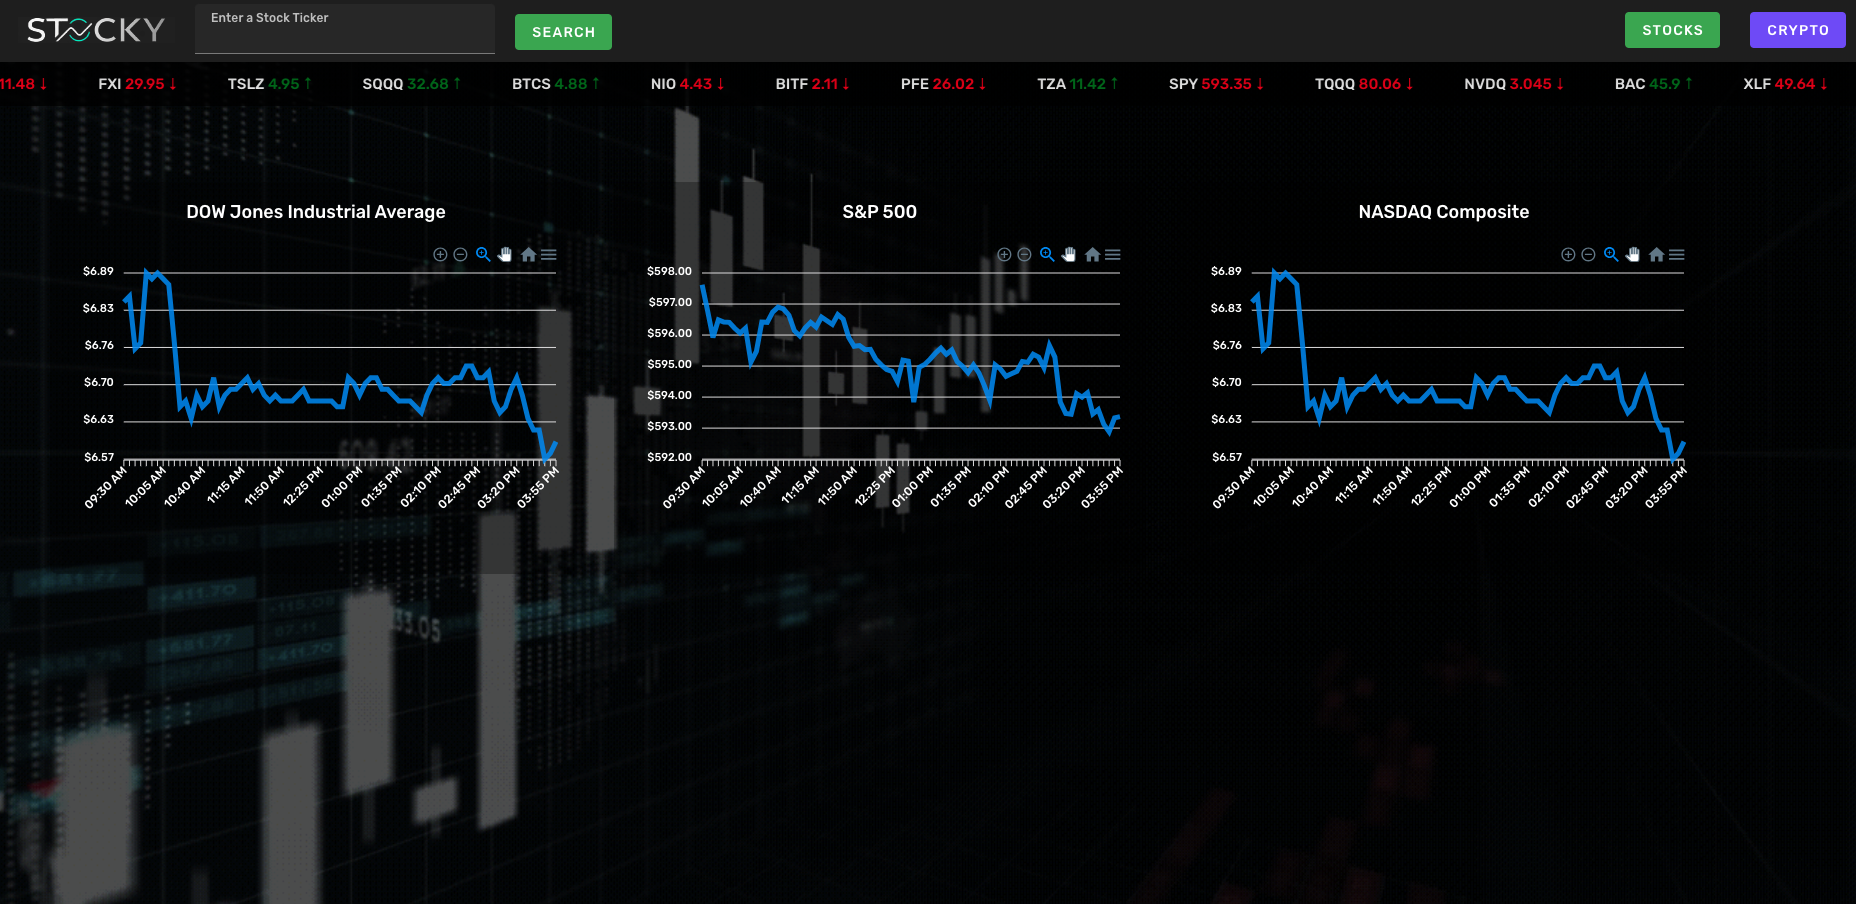
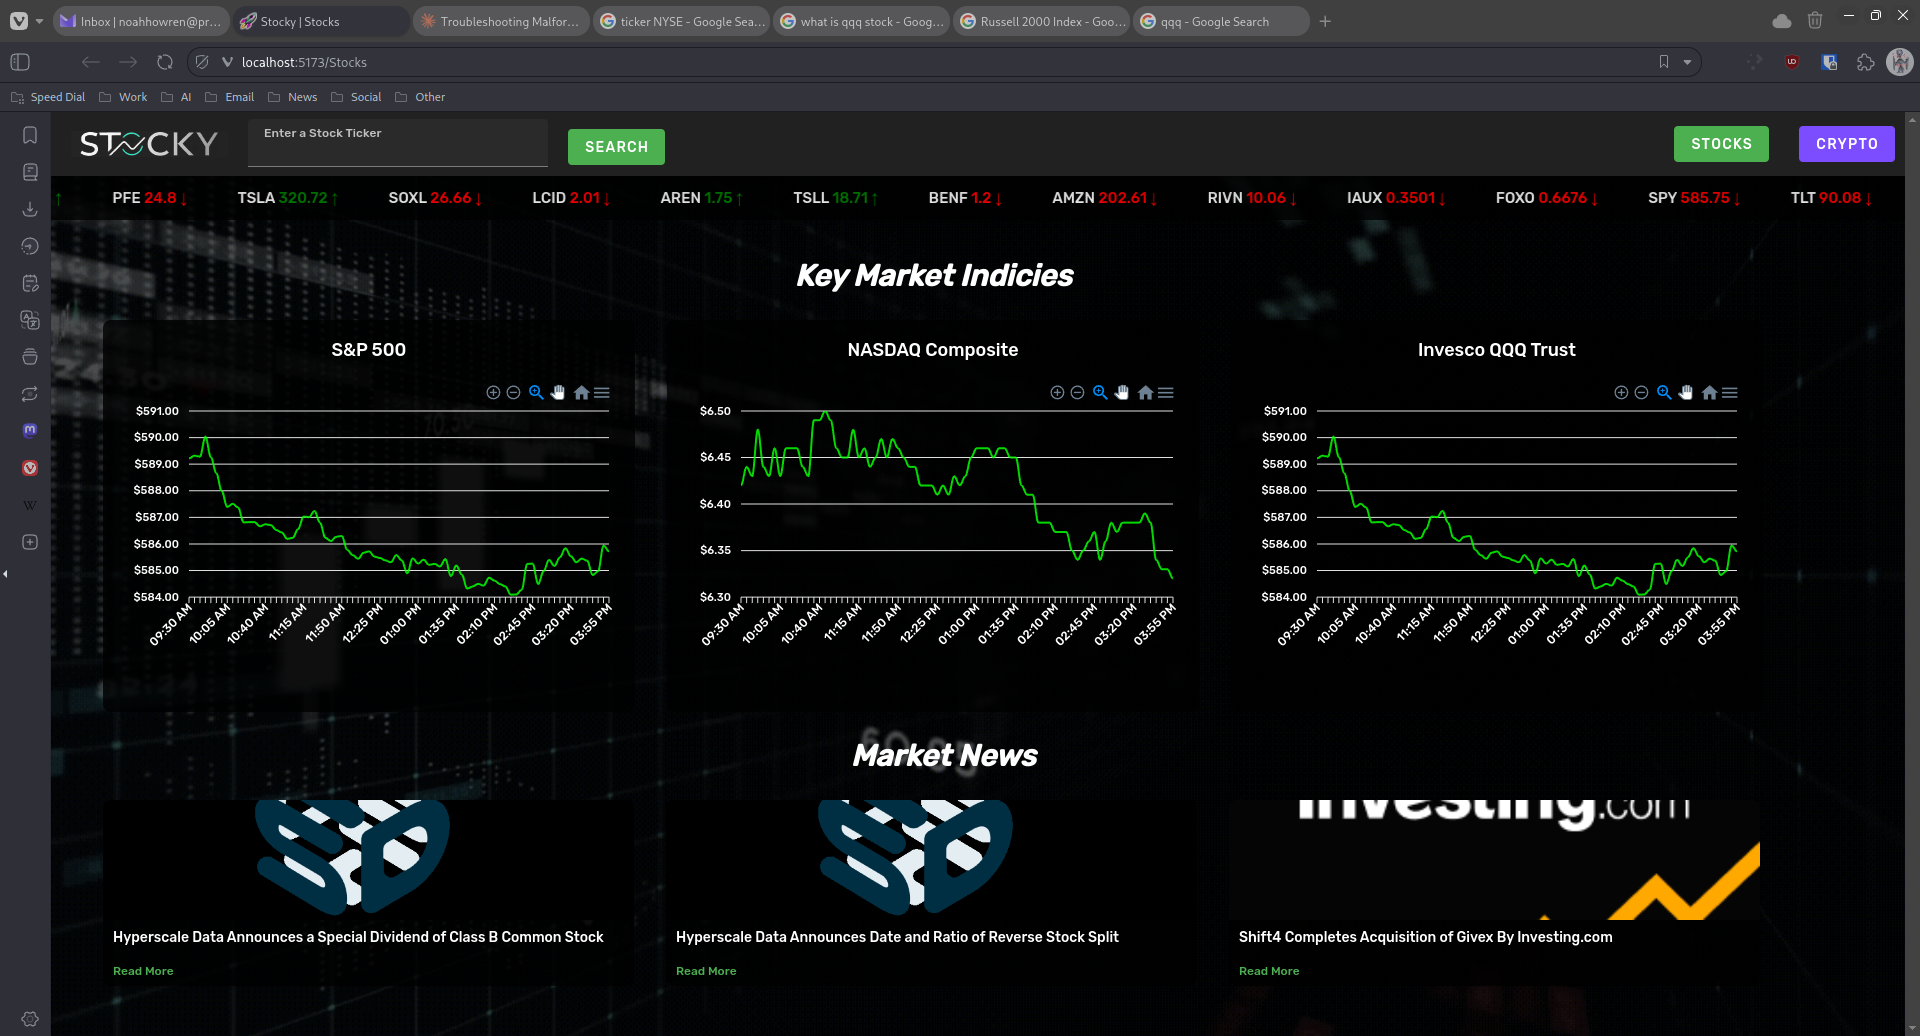
Adding Market News to home screen, replacing DJIA

diff --git a/frontend/src/views/Home.vue b/frontend/src/views/Home.vue
@@ -3,18 +3,9 @@
         <nav_bar></nav_bar>
         <img :src="background" class="background" :key="background">
         <div class="content-wrapper">
+            <div class="chart_header">Key Market Indicies</div>
             <div class="chart-container">
-                <div class="chart-box">
-                    <h3 class="chart-title">DOW Jones Industrial Average</h3>
-                    <apexchart
-                        class="djia"
-                        type="line"
-                        :height="300"
-                        :width="500"
-                        :series="compData"
-                        :options="compOpt"
-                    /> 
-                </div>
+                
                 <div class="chart-box">
                     <h3 class="chart-title">S&P 500</h3>
                     <apexchart
@@ -26,6 +17,7 @@
                         :options="spyOpt"
                     />
                 </div>
+                
                 <div class="chart-box">
                     <h3 class="chart-title">NASDAQ Composite</h3>
                     <apexchart
@@ -36,6 +28,28 @@
                         :series="compData"
                         :options="compOpt"
                     /> 
+                </div>
+                <div class="chart-box">
+                    <h3 class="chart-title">Invesco QQQ Trust</h3>
+                    <apexchart
+                        class="qqq-graph"
+                        type="line"
+                        :height="300"
+                        :width="500"
+                        :series="spyData"
+                        :options="spyOpt"
+                    /> 
+                </div>
+            </div>
+            
+            <div v-show =isNews class="news_section">
+                <div class="news_header">Market News</div>
+                <div class="news_container" v-if="newsData.length > 0">
+                    <div v-for="(article, index) in newsData" :key="index" class="news_box">
+                        <v-img :src="article.image_url" height="120px" width="100%" cover></v-img>
+                        <h3 class="news_title">{{ article.title }}</h3>
+                        <a :href="article.url" target="_blank" class="news_link">Read More</a>
+                    </div>
                 </div>
             </div>
         </div>
@@ -61,11 +75,14 @@
         data() {
             return {
                 background: s_background,
-                djiaData: [],
+                qqqData: [],
                 spyData: [],
                 compData: [],
                 rutData: [],
-                djiaOpt: {
+                news: [],
+                newsData: [],
+                isNews: false,
+                qqqOpt: {
                     chart: {
                         type: 'line',
                         id: 'lines',
@@ -107,6 +124,14 @@
                                 colors: 'white'
                             }
                         }
+                    },
+                    stroke: {
+                        curve: 'smooth',
+                        width: 2
+                    },
+                    fill: {
+                        type: 'solid',
+                        colors: ['#04ff00']  // Same green color as other charts
                     }
                 },
                 spyOpt: {
@@ -151,6 +176,14 @@
                                 colors: 'white'
                             }
                         }
+                    },
+                    stroke: {
+                        curve: 'smooth',
+                        width: 2
+                    },
+                    fill: {
+                        type: 'solid',
+                        colors: ['#04ff00']
                     }
                 },
                 compOpt: {
@@ -195,52 +228,14 @@
                                 colors: 'white'
                             }
                         }
-                    }
-                },
-                chartOptions: {
-                    chart: {
-                        type: 'line',
-                        height: '30%',
-                        width: 400,
-                        id: 'lines',
-                        fontFamily: 'Rubik, sans-serif'
                     },
-                    zoom: {
-                        enabled: false
+                    stroke: {
+                        curve: 'smooth',
+                        width: 2
                     },
-                    title: {
-                        align: 'left',
-                        style: {
-                            color: 'white',
-                            fontSize: '16px',
-                            fontWeight: 'bold'
-                        }
-                    },
-                    tooltip: {
-                        enabled: true,
-                        followCursor: true,
-                        style: {
-                            color: 'black'
-                        }
-                    },
-                    yaxis: {
-                        forceNiceScale: true,
-                        labels: {
-                            formatter: function(value) {
-                                return '$' + value.toFixed(2);
-                            },
-                            style: {
-                                colors: 'white'
-                            }
-                        }
-                    },
-                    xaxis: {
-                        tickAmount: 10,
-                        labels: {
-                            style: {
-                                colors: 'white'
-                            }
-                        }
+                    fill: {
+                        type: 'solid',
+                        colors: ['#04ff00']
                     }
                 }
             }
@@ -256,13 +251,20 @@
                 try {
                     const response = await axios.get(path);
                     console.log('Raw API response:', response.data);
-                    const { djia, spy, comp } = response.data;
-                    this.djiaData = this.processChartData(djia);
+                    const { comp, qqq, news, spy} = response.data;
+                    if (news.length > 0){
+                        this.isNews = true;
+                        this.newsData = news;
+                        console.log(this.newsData);
+                    }
+                    else{
+                        this.isNews = false;
+                        this.newsData = [];
+                        console.log("no news!");
+                    }
+                    this.qqqData = this.processChartData(qqq);
                     this.spyData  = this.processChartData(spy);
                     this.compData = this.processChartData(comp);
-                    this.djiaOpt  = this.getChartOptions(this.djiaData, {...this.chartOptions});
-                    this.spyOpt   = this.getChartOptions(this.spyData, {...this.chartOptions});
-                    this.compOpt  = this.getChartOptions(this.compData, {...this.chartOptions});
                 } catch (error) {
                     console.error('Error fetching data:', error);
                 }
@@ -291,18 +293,6 @@
                         y: parseFloat(item.close)
                     }))
                 }];
-            },
-            getChartOptions(chartData, chartOpt)
-            {
-                console.log(chartData);
-                const yValues = chartData.flatMap(point => point.y.map(Number));
-                if (yValues.length > 0) {
-                    console.log((Math.min(...yValues) - 1).toFixed(0));
-                    console.log((Math.max(...yValues) + 1).toFixed(0));
-                    chartOpt.yaxis.max = (Math.max(...yValues) + 1).toFixed(0);
-                    chartOpt.yaxis.min = (Math.min(...yValues) - 1).toFixed(0);
-                }
-                return chartOpt;
             }
         }
     }
@@ -315,8 +305,8 @@
 }
 
 .v-theme--myCustomDark {
-    background: transparent !important; /* Transparent to show your background GIF */
-    box-shadow: none; /* Remove any shadows, if present */
+    background: transparent !important;
+    box-shadow: none; 
 }
 
 .background {
@@ -331,14 +321,28 @@
 }
 
 .content-wrapper {
-    padding-top: 164px;
+    padding-top: 140px;
     position: relative;
     z-index: 1;
     font-family: 'Rubik', sans-serif;
 }
 
+.chart_header {
+    color: white;
+    font-size: 30px;
+    font-style: italic;
+    font-weight: bold;
+    margin-bottom: 0px;
+    margin-left: auto;
+    margin-right: auto;
+    max-width: fit-content;
+}
 .chart-container {
     display: flex;
+    max-width: fit-content;
+    margin-left:auto;
+    margin-right:auto;
+    margin-inline: auto;
     flex-direction: row;
     justify-content: center;
     align-items: flex-start;
@@ -365,4 +369,77 @@
 .custom-font {
     font-family: 'Rubik', sans-serif;
 }
+
+.chart-box {
+    background: rgba(0, 0, 0, 0.8);
+    border-radius: 8px;
+    padding: 16px;
+    min-width: 400px;
+}
+
+.news_section {
+    padding-left: 20px;
+    width: 100%;
+}
+
+.news_header {
+    color: white;
+    font-size: 30px;
+    font-style: italic; 
+    font-weight: bold;
+    margin-left: auto;
+    margin-top: 0px;
+    margin-right: auto;
+    padding-bottom: 20px;
+    max-width: fit-content;
+}
+
+.news_container {
+    display: flex;
+    justify-content: flex-start;
+    margin-left: auto;
+    margin-right: auto;
+    flex-direction: row;
+    align-items: stretch;
+    flex-wrap: wrap;
+    gap:32px;
+}
+
+.news_box {
+    background: rgba(0, 0, 0, 0.8);
+    border-radius: 8px;
+    box-shadow: 0 4px 6px rgba(0, 0, 0, 0.1);
+    width: 531px;
+    flex-direction: column;
+}
+
+.news_title {
+    padding: 10px;
+    color: white;
+    font-size: 14px;
+    margin: 0;
+    line-height: 1.2;
+    flex-grow: 1;
+}
+
+.news_link {
+    display: block;
+    padding: 5px 10px;
+    color: #4CAF50;
+    text-decoration: none;
+    font-size: 12px;
+    margin-top: auto;
+} 
+
+.news_link:hover {
+    text-decoration: underline;
+}
+
+/* Make sure images in news boxes maintain aspect ratio */
+.news_box .v-img {
+    width: 535px;
+    height: auto;
+    object-fit: cover;
+}
+
 </style>

diff --git a/backend/stocky.py b/backend/stocky.py
@@ -158,9 +158,15 @@ def refreshGraph(source ,ticker, interval):
 
 @app.route('/homepage/')
 def homePage():
+    news_Key = os.getenv('NEWSST')
+    news_URL  = f'https://api.marketaux.com/v1/news/all?must_have_entities=true&industries=Financial&countries=US&api_token={news_Key}'
+    try:
+        newsData  = rq.get(news_URL).json()['data']
+    except:
+        newsData = []
     options=['close', 'high', 'low', 'open']
-    djia = list(reversed(td.time_series(
-        symbol="DJIA",
+    qqq = list(reversed(td.time_series(
+        symbol="QQQ",
         interval="5min",
         outputsize=78
     ).as_json()))
@@ -175,7 +181,7 @@ def homePage():
         outputsize=78
     ).as_json()))
     retDat = { 
-        'djia': djia,
+        'qqq': qqq,
         'spy': spy,
         'comp': comp
     }
@@ -184,4 +190,5 @@ def homePage():
             each['datetime'] = datetime.strptime(each['datetime'], '%Y-%m-%d %H:%M:%S').strftime('%I:%M %p')
             for op in options:
                 each[op] = "{:.2f}".format(float(each[op]))
+    retDat['news'] = newsData
     return retDat

diff --git a/README.md b/README.md
@@ -1,6 +1,6 @@
 # Stocky - Data Visualisation Web App
 Noah Howren \
-Last updated: 11/14/2024 \
+Last updated: 11/17/2024 \
  \
 Stocks Home Page \
 ![alt text](ProjectImages/StocksHome.png)
